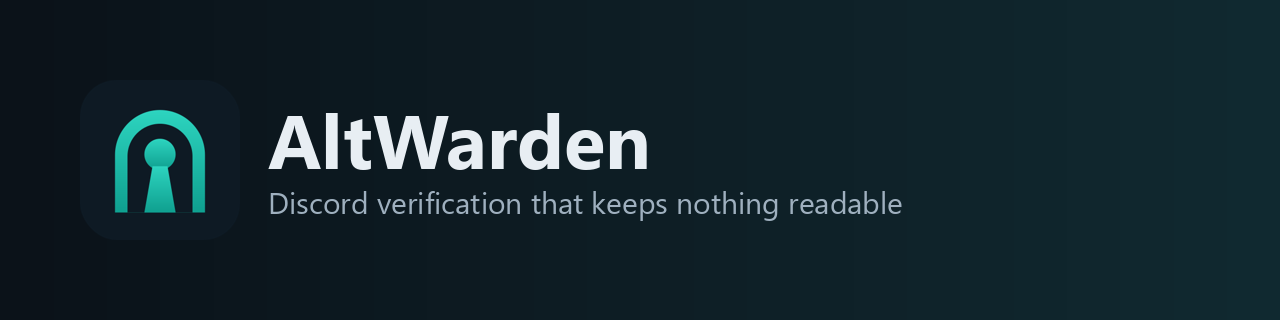
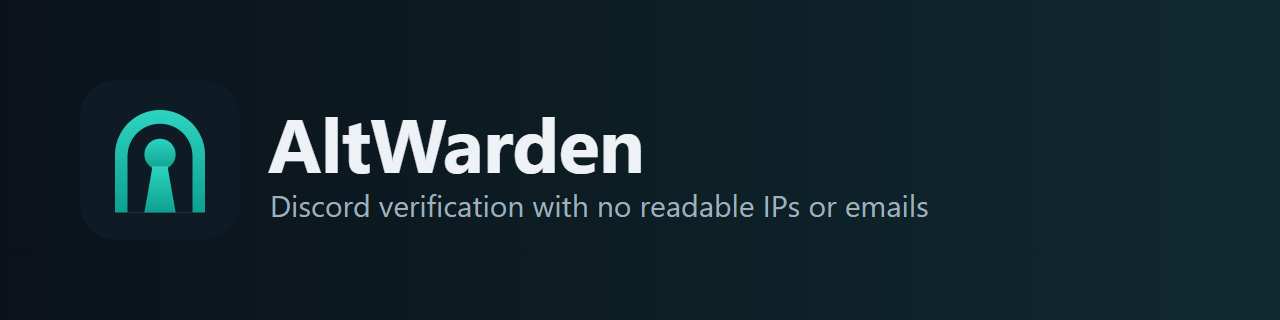
Stop claiming nothing readable is stored
Discord IDs, usernames and profile pictures are stored so staff can see
who verified, as the privacy page already says. The home page, verify page,
README and artwork now say no readable IPs or emails, which is what the
code does.

Add the Discord banner and cover image, and scripts/build_art.py, which
draws all the artwork from the logo.

Changed region(s): [[0.2188, 0.3438, 0.5312, 0.5625], [0.1875, 0.5938, 0.7188, 0.6875]]

diff --git a/altwarden/web/static/index.html b/altwarden/web/static/index.html
@@ -3,10 +3,10 @@
 <head>
   <meta charset="utf-8">
   <meta name="viewport" content="width=device-width, initial-scale=1">
-  <title>AltWarden: Discord verification that keeps nothing readable</title>
+  <title>AltWarden: Discord verification with no readable IPs or emails</title>
   <meta name="description" content="AltWarden is an open-source Discord verification bot. It stops alt accounts, ban evaders, VPNs and raids, and stores no readable IP addresses, emails or fingerprints.">
   <meta property="og:title" content="AltWarden">
-  <meta property="og:description" content="Open-source Discord verification that keeps nothing readable.">
+  <meta property="og:description" content="Open-source Discord verification with no readable IPs or emails.">
   <meta property="og:image" content="/static/img/logo-512.png">
   <link rel="icon" href="/static/img/logo.svg" type="image/svg+xml">
   <link rel="stylesheet" href="/static/css/base.css">
@@ -26,7 +26,7 @@
 
   <main>
     <section class="hero">
-      <h1>Keep alt accounts out.<br>Keep nothing readable.</h1>
+      <h1>Keep alt accounts out.<br>Keep no readable IPs or emails.</h1>
       <p>AltWarden checks new Discord members for alt accounts, ban evasion, VPNs and raids. If its database were stolen tomorrow, the thief would find no IP addresses, no emails, no Discord tokens and no fingerprints.</p>
       <div class="hero-actions">
         <a class="button primary" href="/invite">Add to Discord</a>
@@ -41,8 +41,8 @@
 
     <section class="features">
       <article>
-        <h3>Nothing readable at rest</h3>
-        <p>Addresses, cookies and fingerprints become keyed hashes before they touch the disk. Emails are never stored. Discord tokens are revoked seconds after sign-in.</p>
+        <h3>No readable IPs or emails at rest</h3>
+        <p>Addresses, cookies and fingerprints become keyed hashes before they touch the disk. Emails are never stored. Discord tokens are revoked seconds after sign-in. Discord IDs and names are kept, so staff can see who verified.</p>
       </article>
       <article>
         <h3>No ads, no trackers</h3>

diff --git a/altwarden/web/static/js/verify.js b/altwarden/web/static/js/verify.js
@@ -28,7 +28,7 @@ function header(state) {
 
 function privacyLine() {
   const line = el("p", { class: "privacy-line" });
-  line.append(t("No ads, no trackers, and nothing readable about you is stored. "));
+  line.append(t("No ads, no trackers, and your IP address and email are never stored in readable form. "));
   line.append(el("a", { href: "/privacy", text: t("How this works") }));
   return line;
 }

diff --git a/scripts/build_art.py b/scripts/build_art.py
@@ -1,0 +1,83 @@
+"""Draws the README header, the social preview and the two images on the Discord app page.
+
+Each one comes from the logo in altwarden/web/static/img/logo.svg, so a change to the logo or the
+tagline only needs this script run again. It needs Playwright and Microsoft Edge:
+
+    python scripts/build_art.py
+"""
+from __future__ import annotations
+
+import re
+from pathlib import Path
+
+from playwright.sync_api import sync_playwright
+
+ROOT = Path(__file__).resolve().parent.parent
+LOGO = (ROOT / "altwarden/web/static/img/logo.svg").read_text(encoding="utf-8")
+GATE_PATHS = (
+    '<path d="M112 424V240c0-79.5 64.5-144 144-144s144 64.5 144 144v184H360V244c0-57.4-46.6-104-104-104s-104 46.6-104 104v180z"/>'
+    '<circle cx="256" cy="238" r="50"/><path d="M232 276h48l26 148h-100z"/>'
+)
+TAGLINE = "Discord verification with no readable IPs or emails"
+PAGE = """<!doctype html><meta charset="utf-8"><style>
+* {{ margin: 0; box-sizing: border-box; }}
+html, body {{ width: {width}px; height: {height}px; overflow: hidden; }}
+body {{ position: relative; background: linear-gradient(90deg, #0b1219, #102930); font-family: "Segoe UI", system-ui, sans-serif; }}
+.logo, .name, .line, .gate {{ position: absolute; }}
+.logo svg, .gate svg {{ display: block; width: 100%; height: 100%; }}
+.name {{ color: #eef2f7; font-weight: 700; line-height: 1; letter-spacing: -.01em; white-space: nowrap; }}
+.line {{ color: #9fb0bc; line-height: 1; white-space: nowrap; }}
+{style}
+</style>{body}"""
+
+
+def logo() -> str:
+    return f'<div class="logo">{LOGO}</div>'
+
+
+def gate() -> str:
+    return f'<div class="gate"><svg viewBox="96 80 320 360" fill="#2dd4bf">{GATE_PATHS}</svg></div>'
+
+
+def words(line: str = TAGLINE) -> str:
+    return f'<div class="name">AltWarden</div><div class="line">{line}</div>'
+
+
+ART = {
+    "header.png": (1280, 320, logo() + words(), """
+        .logo { left: 80px; top: 80px; width: 160px; height: 160px; }
+        .name { left: 268px; top: 104px; font-size: 76px; }
+        .line { left: 270px; top: 190px; font-size: 30px; }"""),
+    "social-preview.png": (1280, 640, logo() + words(), """
+        .logo { left: 90px; top: 160px; width: 320px; height: 320px; }
+        .name { left: 466px; top: 234px; font-size: 92px; }
+        .line { left: 470px; top: 344px; font-size: 32px; }"""),
+    # Discord lays the bot's picture over the lower left of its banner, so the words start to the right of it.
+    "discord-banner.png": (680, 240, gate() + words("Verification with no readable IPs or emails"), """
+        .gate { right: -36px; top: 22px; width: 300px; height: 338px; opacity: .13; }
+        .name { left: 232px; top: 66px; font-size: 66px; }
+        .line { left: 235px; top: 142px; font-size: 21.5px; }"""),
+    "discord-cover.png": (1024, 576, logo() + words(), """
+        .logo { left: 412px; top: 92px; width: 200px; height: 200px; }
+        .name { left: 0; width: 1024px; text-align: center; top: 322px; font-size: 88px; }
+        .line { left: 0; width: 1024px; text-align: center; top: 432px; font-size: 34px; }"""),
+}
+
+
+def main() -> None:
+    target = ROOT / "assets"
+    target.mkdir(exist_ok=True)
+    with sync_playwright() as playwright:
+        browser = playwright.chromium.launch(channel="msedge", headless=True)
+        for name, (width, height, body, style) in ART.items():
+            page = browser.new_page(viewport={"width": width, "height": height}, device_scale_factor=1)
+            page.set_content(PAGE.format(width=width, height=height, style=re.sub(r"\s+", " ", style), body=body))
+            page.evaluate("document.fonts.ready")
+            page.screenshot(path=target / name, omit_background=False)
+            page.close()
+            print(f"{name}: {width}x{height}")
+        browser.close()
+
+
+if __name__ == "__main__":
+    main()

diff --git a/altwarden/crypto.py b/altwarden/crypto.py
@@ -3,7 +3,7 @@
 No raw IP address, cookie value or browser fingerprint reaches the database. Each one is
 replaced by an HMAC under a key derived for one server and one kind of identifier, so:
 
-  * a stolen database holds no readable identifiers,
+  * a stolen database holds no readable IP address, cookie or fingerprint,
   * the same person has unrelated digests in two servers, so nobody can link them,
   * the master key stays out of the database, so the digests can't be reversed from it alone.
 

diff --git a/README.md b/README.md
@@ -1,5 +1,5 @@
 <p align="center">
-  <img src="assets/header.png" alt="AltWarden: Discord verification that keeps nothing readable" width="100%">
+  <img src="assets/header.png" alt="AltWarden: Discord verification with no readable IPs or emails" width="100%">
 </p>
 
 <p align="center">
